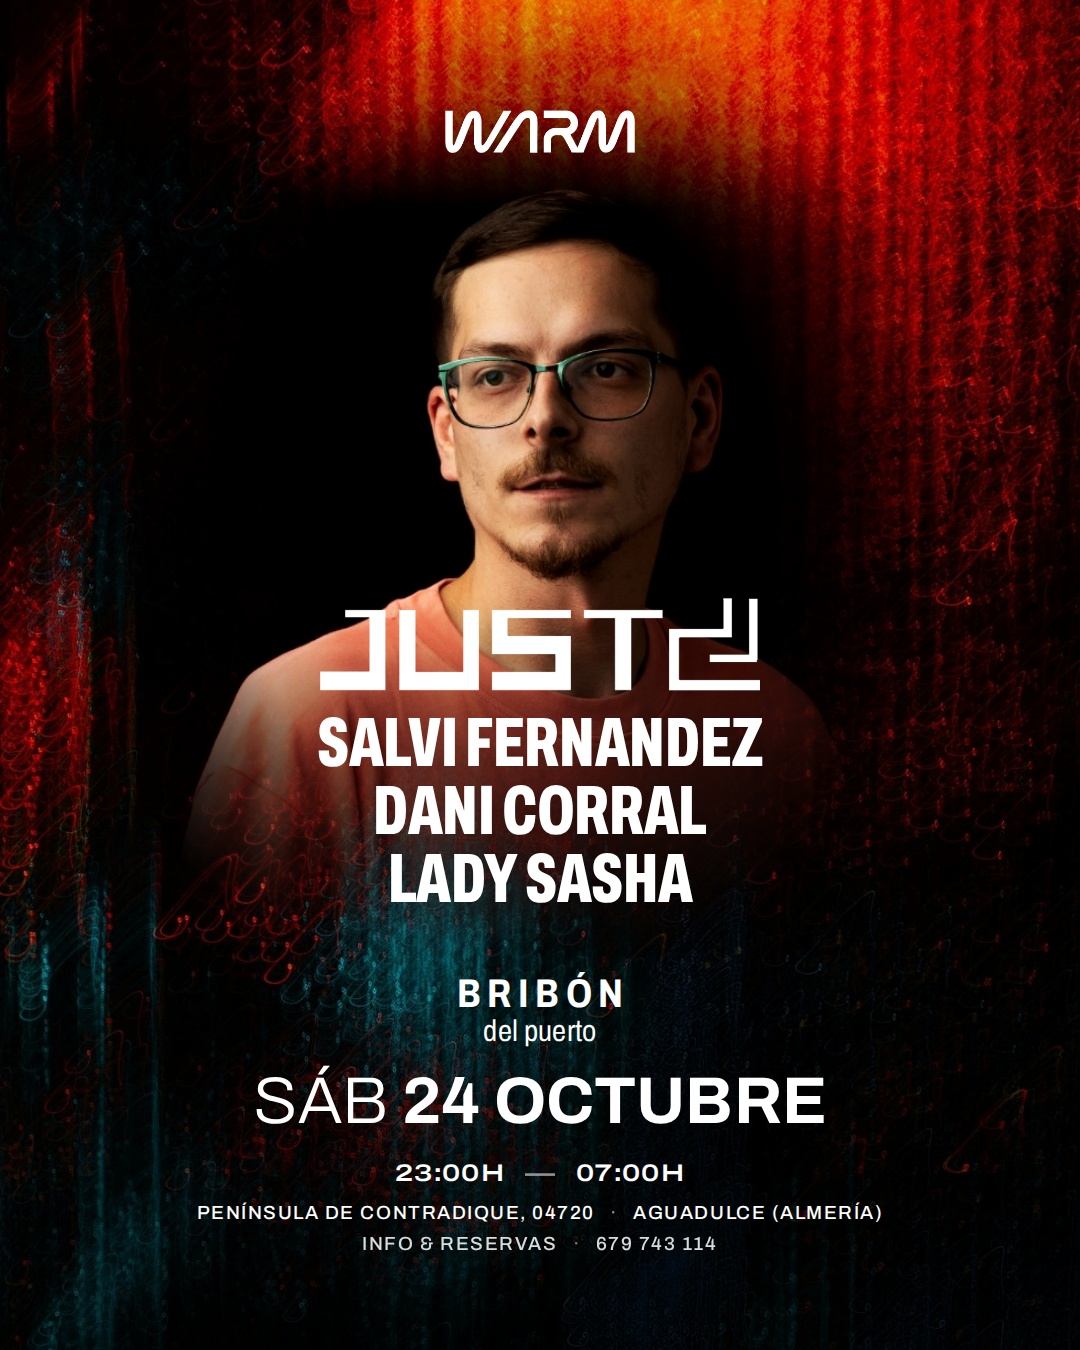
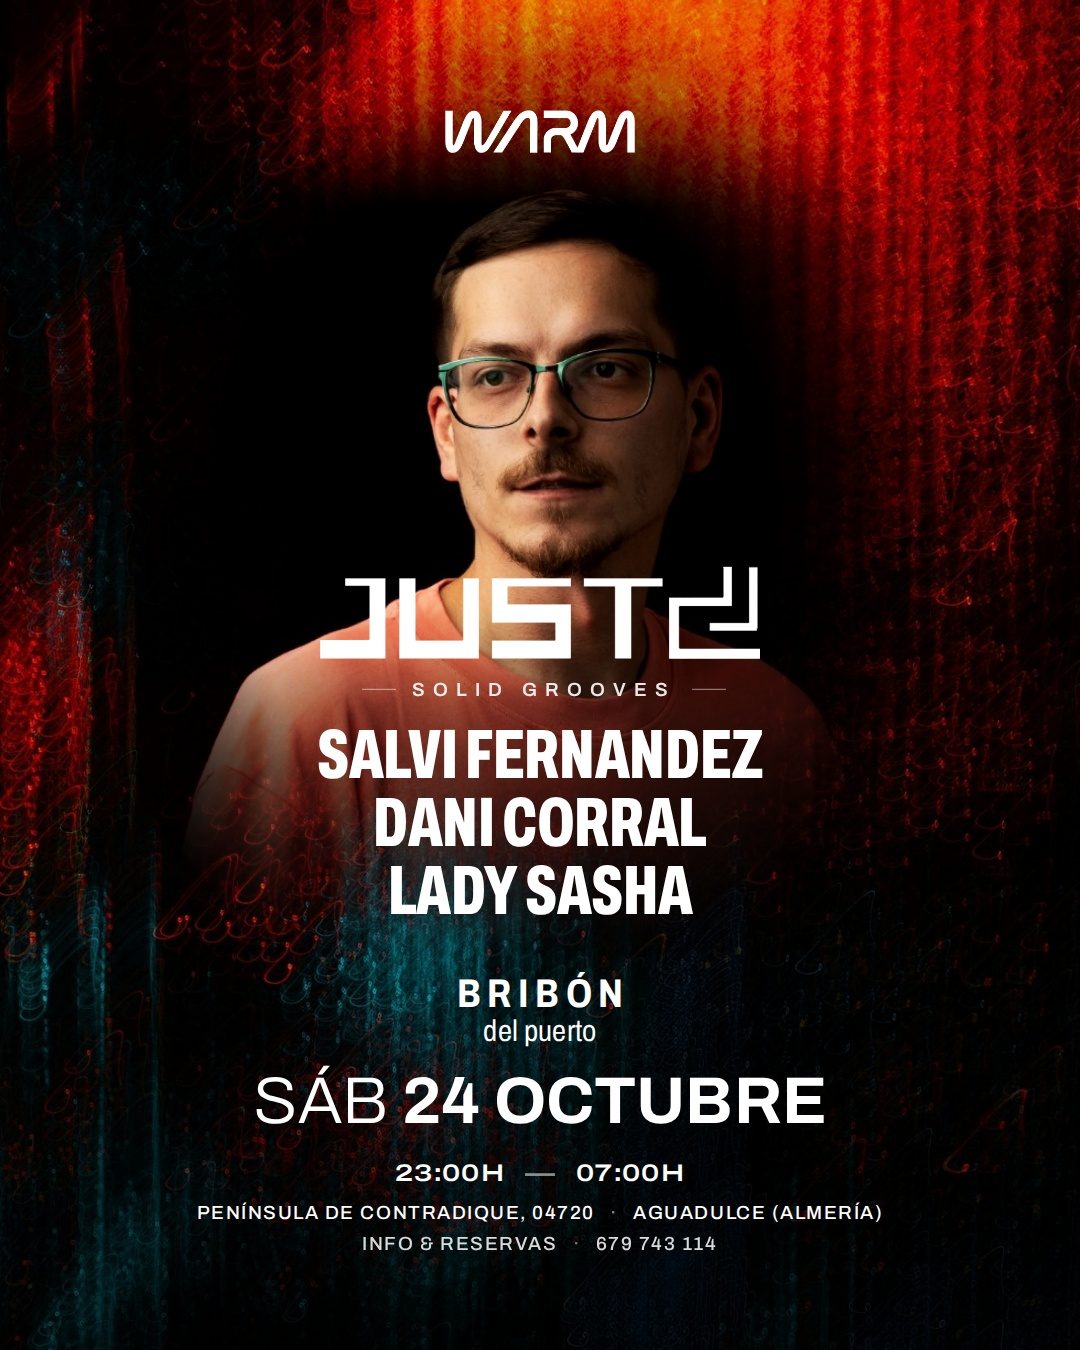
WARM 24.10 FINAL — fundal lumini + label Solid Grooves (feed + story)
Claude-Session: https://claude.ai/code/session_01PsYJ7xTqRMzxVLnVuQx1Lt

Changed region(s): [[0.275, 0.4044, 0.7028, 0.6844]]

diff --git a/warm_24oct/poster_lights_story.html b/warm_24oct/poster_lights_story.html
@@ -1,0 +1,77 @@
+<!doctype html><html><head><meta charset="utf-8">
+<link href="fonts.css" rel="stylesheet">
+<style>
+:root{--cream:#FFFFFF;--ember:#FF5A1F}
+*{margin:0;padding:0;box-sizing:border-box}
+body{width:1080px;height:1920px;background:#000 url(bg_lights_story.jpg) 0 0/1080px 1920px no-repeat;overflow:hidden}
+.stage{position:absolute;left:0;top:180px;width:1080px;height:1350px;transform:scale(1.08);transform-origin:50% 0}
+.p{position:relative;width:1080px;height:1350px;background:none;color:var(--cream);font-family:'Archivo';
+  display:flex;flex-direction:column;align-items:center;justify-content:space-between;text-align:center;padding:110px 120px}
+/* safe zone guide (debug) */
+.p::before{content:"";position:absolute;inset:0;z-index:2;background:radial-gradient(ellipse 48% 16% at 50% 60%,rgba(0,0,0,.55),rgba(0,0,0,0) 100%);pointer-events:none}
+.p>*{position:relative;z-index:2}
+.p>.photo{position:absolute;z-index:1;left:-177px;top:-35px;width:1466px;height:2206px;background:url(photos/just2.jpg) center/cover;
+  -webkit-mask-image:linear-gradient(180deg,rgba(0,0,0,0) 6%,#000 11%,#000 31%,rgba(0,0,0,.55) 38%,rgba(0,0,0,0) 45%),radial-gradient(ellipse 30% 24% at 46% 24%,#000 62%,rgba(0,0,0,0) 100%);
+  -webkit-mask-composite:source-in;mask-composite:intersect;filter:contrast(1.06) saturate(.95)}
+.p>.halo{position:absolute;z-index:1;inset:0;background:radial-gradient(ellipse 44% 36% at 50% 36%,rgba(0,0,0,.9) 40%,rgba(0,0,0,0) 100%)}
+.p>.head{position:absolute;top:110px;left:0;right:0;display:flex;justify-content:center}
+.p>.mid{position:absolute;left:0;right:0;top:742px;transform:translateY(-50%)}
+.p>.foot{position:absolute;bottom:96px;left:50%;transform:translateX(-50%)}
+.guide{position:absolute;inset:110px 120px;border:1px dashed #0f0;display:none}
+.mono{font-family:'Space Mono';font-size:17px;letter-spacing:.14em;text-transform:uppercase}
+.logo{border:1px dashed rgba(242,232,218,.55);padding:12px 26px;font-stretch:125%;font-weight:800;font-size:40px;letter-spacing:.04em}
+.logo small{display:block;font-family:'Space Mono';font-weight:400;font-size:10px;letter-spacing:.16em;opacity:.6;margin-top:2px}
+.head{display:flex;flex-direction:column;align-items:center;gap:36px}
+.mid{display:flex;flex-direction:column;align-items:center;gap:78px}
+.date{font-stretch:125%;font-weight:800;font-size:30px;letter-spacing:.02em}
+.date span{font-family:'Space Mono';font-weight:400;font-size:17px;letter-spacing:.14em;opacity:.8;margin:0 14px;vertical-align:4px}
+.wlogo{width:190px;display:block}
+.lineup{display:flex;flex-direction:column;align-items:center;gap:16px}
+.lineup .j2{height:92px;display:block;margin-bottom:12px}
+.lineup .n{font-stretch:62%;font-weight:800;font-size:70px;line-height:.74;text-transform:uppercase;letter-spacing:-.005em}
+.lineup .sep{font-family:'Space Mono';font-size:15px;color:var(--cream);opacity:1;letter-spacing:.3em;margin:6px 0 8px}
+.time{display:flex;align-items:center;gap:26px;width:760px}
+.time b{font-stretch:125%;font-weight:300;font-size:54px}
+.time span{flex:1;height:1px;background:var(--cream);opacity:.55}
+.foot{display:flex;flex-direction:column;align-items:center;gap:10px}
+.foot b{font-weight:700;font-size:28px;letter-spacing:.01em}
+.logos{display:flex;gap:14px;margin-top:18px}
+.logos div{border:1px dashed rgba(242,232,218,.45);width:112px;height:46px;display:grid;place-items:center;font-size:10px;opacity:.7}
+.foot{gap:0;width:840px}
+.fdate{font-stretch:100%;font-weight:700;font-size:66px;letter-spacing:.005em;line-height:1;margin-bottom:26px}
+.fdate span{font-weight:300}
+.fvenue{display:flex;flex-direction:column;align-items:center;line-height:1;margin-bottom:22px}
+.fvenue b{font-stretch:80%;font-weight:700;font-size:40px;letter-spacing:.16em;padding-left:.16em}
+.fvenue i{font-style:normal;font-stretch:80%;font-weight:400;font-size:30px;letter-spacing:.01em;margin-top:2px}
+.frow,.faddr{display:flex;justify-content:center;gap:44px;width:100%;text-transform:uppercase}
+.frow{font-weight:600;font-size:18px;letter-spacing:.03em;margin-bottom:14px}
+.faddr{font-weight:500;font-size:23px;letter-spacing:.01em}
+.p{padding:120px 120px 118px}
+.finfo{display:flex;flex-direction:column;align-items:center;gap:10px;text-transform:uppercase}
+.finfo em{font-style:normal;opacity:.55;margin:0 10px}
+.finfo .l1{font-stretch:125%;font-weight:600;font-size:24px;letter-spacing:.06em;margin-bottom:6px}
+.finfo .l2,.finfo .l3{font-weight:500;font-size:19px;letter-spacing:.08em}
+.finfo .l3{opacity:.85}
+.lineup .label{font-weight:600;font-size:19px;letter-spacing:.42em;padding-left:.42em;text-transform:uppercase;opacity:.9;margin:-8px 0 14px;display:flex;align-items:center;gap:16px}
+.lineup .label::before,.lineup .label::after{content:"";width:34px;height:1px;background:currentColor;opacity:.6}
+</style></head><body><div class="stage"><div class="p"><div class="guide"></div>
+<div class="halo"></div>
+<div class="photo"></div>
+<div class="head"><img class="wlogo" src="logos/warm_white.png" alt="WARM"></div>
+<div class="mid"><div class="lineup">
+<img class="j2" src="logos/just2_white.png" alt="JUST2">
+<div class="label">Solid Grooves</div>
+<div class="n">Salvi Fernandez</div>
+<div class="n">Dani Corral</div>
+<div class="n">Lady Sasha</div>
+</div></div>
+<div class="foot">
+<div class="fvenue"><b>BRIBÓN</b><i>del puerto</i></div>
+<div class="fdate"><span>SÁB</span> 24 OCTUBRE</div>
+<div class="finfo">
+<div class="l1">23:00H <em>—</em> 07:00H</div>
+<div class="l2">Península de Contradique, 04720 <em>·</em> Aguadulce (Almería)</div>
+<div class="l3">Info &amp; Reservas <em>·</em> 679 743 114</div>
+</div>
+</div>
+</div></div></body></html>

diff --git a/warm_24oct/poster_lights_final.html b/warm_24oct/poster_lights_final.html
@@ -1,0 +1,76 @@
+<!doctype html><html><head><meta charset="utf-8">
+<link href="fonts.css" rel="stylesheet">
+<style>
+:root{--cream:#FFFFFF;--ember:#FF5A1F}
+*{margin:0;padding:0;box-sizing:border-box}
+body{width:1080px;height:1350px;background:#000;overflow:hidden}
+.p{position:relative;width:1080px;height:1350px;background:url(bg_lights_final.jpg) center/cover;color:var(--cream);font-family:'Archivo';
+  display:flex;flex-direction:column;align-items:center;justify-content:space-between;text-align:center;padding:110px 120px}
+/* safe zone guide (debug) */
+.p::before{content:"";position:absolute;inset:0;z-index:2;background:radial-gradient(ellipse 48% 16% at 50% 60%,rgba(0,0,0,.55),rgba(0,0,0,0) 100%);pointer-events:none}
+.p>*{position:relative;z-index:2}
+.p>.photo{position:absolute;z-index:1;left:-177px;top:-35px;width:1466px;height:2206px;background:url(photos/just2.jpg) center/cover;
+  -webkit-mask-image:linear-gradient(180deg,rgba(0,0,0,0) 6%,#000 11%,#000 31%,rgba(0,0,0,.55) 38%,rgba(0,0,0,0) 45%),radial-gradient(ellipse 30% 24% at 46% 24%,#000 62%,rgba(0,0,0,0) 100%);
+  -webkit-mask-composite:source-in;mask-composite:intersect;filter:contrast(1.06) saturate(.95)}
+.p>.halo{position:absolute;z-index:1;inset:0;background:radial-gradient(ellipse 44% 36% at 50% 36%,rgba(0,0,0,.9) 40%,rgba(0,0,0,0) 100%)}
+.p>.head{position:absolute;top:110px;left:0;right:0;display:flex;justify-content:center}
+.p>.mid{position:absolute;left:0;right:0;top:742px;transform:translateY(-50%)}
+.p>.foot{position:absolute;bottom:96px;left:50%;transform:translateX(-50%)}
+.guide{position:absolute;inset:110px 120px;border:1px dashed #0f0;display:none}
+.mono{font-family:'Space Mono';font-size:17px;letter-spacing:.14em;text-transform:uppercase}
+.logo{border:1px dashed rgba(242,232,218,.55);padding:12px 26px;font-stretch:125%;font-weight:800;font-size:40px;letter-spacing:.04em}
+.logo small{display:block;font-family:'Space Mono';font-weight:400;font-size:10px;letter-spacing:.16em;opacity:.6;margin-top:2px}
+.head{display:flex;flex-direction:column;align-items:center;gap:36px}
+.mid{display:flex;flex-direction:column;align-items:center;gap:78px}
+.date{font-stretch:125%;font-weight:800;font-size:30px;letter-spacing:.02em}
+.date span{font-family:'Space Mono';font-weight:400;font-size:17px;letter-spacing:.14em;opacity:.8;margin:0 14px;vertical-align:4px}
+.wlogo{width:190px;display:block}
+.lineup{display:flex;flex-direction:column;align-items:center;gap:16px}
+.lineup .j2{height:92px;display:block;margin-bottom:12px}
+.lineup .n{font-stretch:62%;font-weight:800;font-size:70px;line-height:.74;text-transform:uppercase;letter-spacing:-.005em}
+.lineup .sep{font-family:'Space Mono';font-size:15px;color:var(--cream);opacity:1;letter-spacing:.3em;margin:6px 0 8px}
+.time{display:flex;align-items:center;gap:26px;width:760px}
+.time b{font-stretch:125%;font-weight:300;font-size:54px}
+.time span{flex:1;height:1px;background:var(--cream);opacity:.55}
+.foot{display:flex;flex-direction:column;align-items:center;gap:10px}
+.foot b{font-weight:700;font-size:28px;letter-spacing:.01em}
+.logos{display:flex;gap:14px;margin-top:18px}
+.logos div{border:1px dashed rgba(242,232,218,.45);width:112px;height:46px;display:grid;place-items:center;font-size:10px;opacity:.7}
+.foot{gap:0;width:840px}
+.fdate{font-stretch:100%;font-weight:700;font-size:66px;letter-spacing:.005em;line-height:1;margin-bottom:26px}
+.fdate span{font-weight:300}
+.fvenue{display:flex;flex-direction:column;align-items:center;line-height:1;margin-bottom:22px}
+.fvenue b{font-stretch:80%;font-weight:700;font-size:40px;letter-spacing:.16em;padding-left:.16em}
+.fvenue i{font-style:normal;font-stretch:80%;font-weight:400;font-size:30px;letter-spacing:.01em;margin-top:2px}
+.frow,.faddr{display:flex;justify-content:center;gap:44px;width:100%;text-transform:uppercase}
+.frow{font-weight:600;font-size:18px;letter-spacing:.03em;margin-bottom:14px}
+.faddr{font-weight:500;font-size:23px;letter-spacing:.01em}
+.p{padding:120px 120px 118px}
+.finfo{display:flex;flex-direction:column;align-items:center;gap:10px;text-transform:uppercase}
+.finfo em{font-style:normal;opacity:.55;margin:0 10px}
+.finfo .l1{font-stretch:125%;font-weight:600;font-size:24px;letter-spacing:.06em;margin-bottom:6px}
+.finfo .l2,.finfo .l3{font-weight:500;font-size:19px;letter-spacing:.08em}
+.finfo .l3{opacity:.85}
+.lineup .label{font-weight:600;font-size:19px;letter-spacing:.42em;padding-left:.42em;text-transform:uppercase;opacity:.9;margin:-8px 0 14px;display:flex;align-items:center;gap:16px}
+.lineup .label::before,.lineup .label::after{content:"";width:34px;height:1px;background:currentColor;opacity:.6}
+</style></head><body><div class="p"><div class="guide"></div>
+<div class="halo"></div>
+<div class="photo"></div>
+<div class="head"><img class="wlogo" src="logos/warm_white.png" alt="WARM"></div>
+<div class="mid"><div class="lineup">
+<img class="j2" src="logos/just2_white.png" alt="JUST2">
+<div class="label">Solid Grooves</div>
+<div class="n">Salvi Fernandez</div>
+<div class="n">Dani Corral</div>
+<div class="n">Lady Sasha</div>
+</div></div>
+<div class="foot">
+<div class="fvenue"><b>BRIBÓN</b><i>del puerto</i></div>
+<div class="fdate"><span>SÁB</span> 24 OCTUBRE</div>
+<div class="finfo">
+<div class="l1">23:00H <em>—</em> 07:00H</div>
+<div class="l2">Península de Contradique, 04720 <em>·</em> Aguadulce (Almería)</div>
+<div class="l3">Info &amp; Reservas <em>·</em> 679 743 114</div>
+</div>
+</div>
+</div></body></html>
